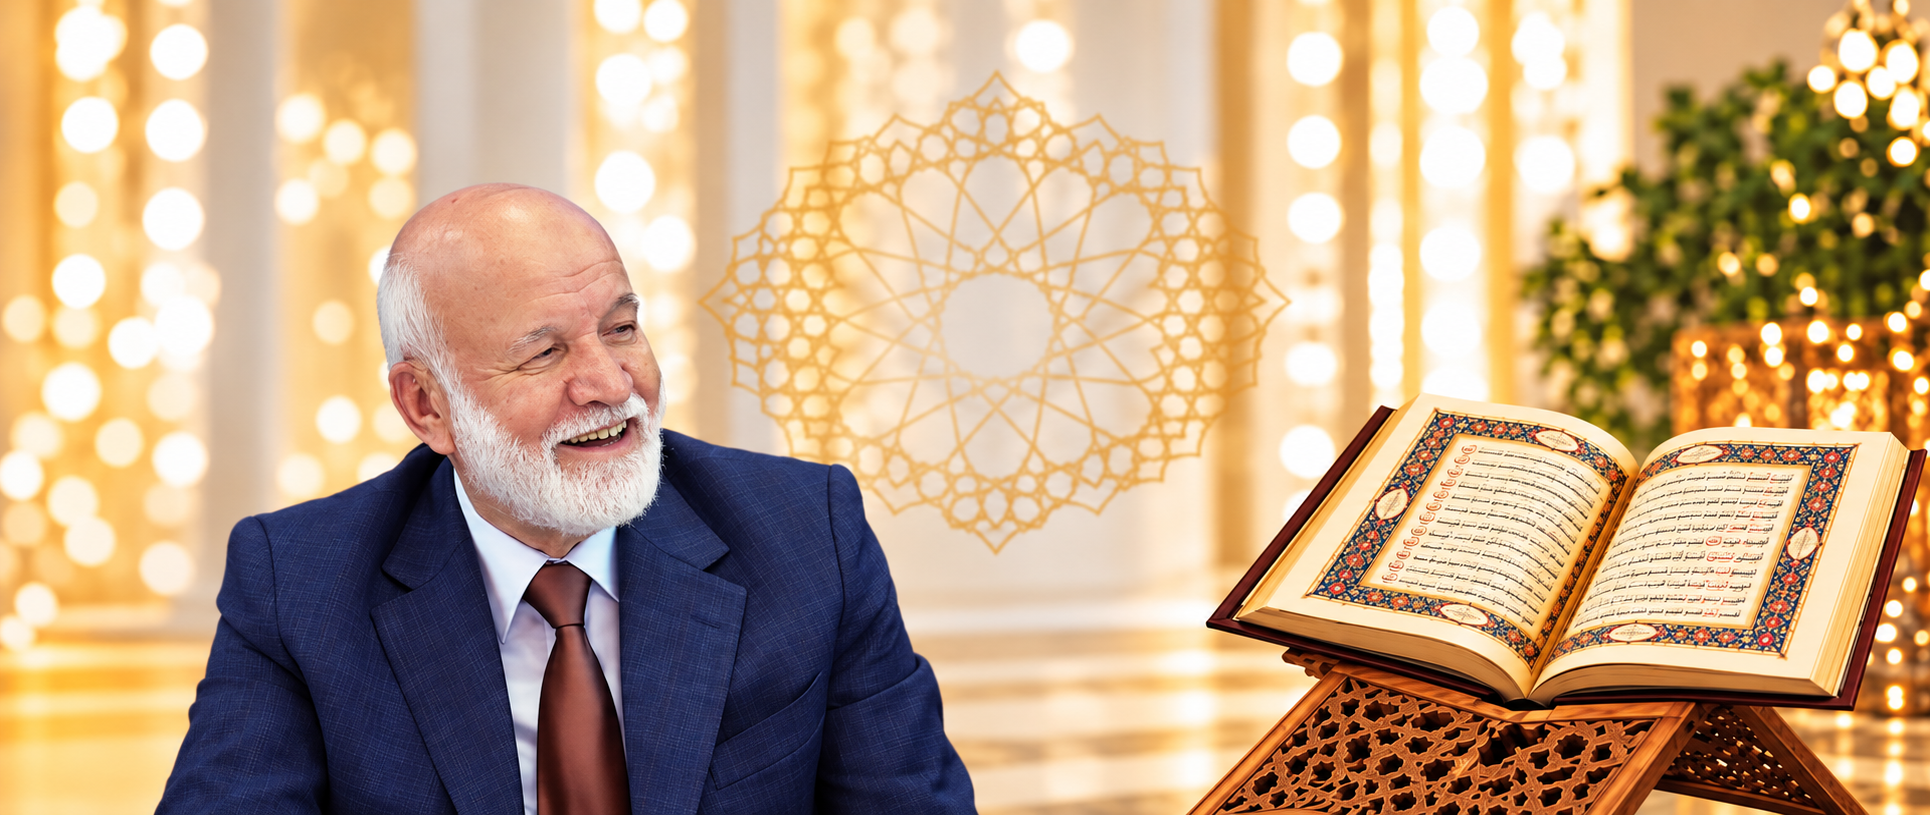
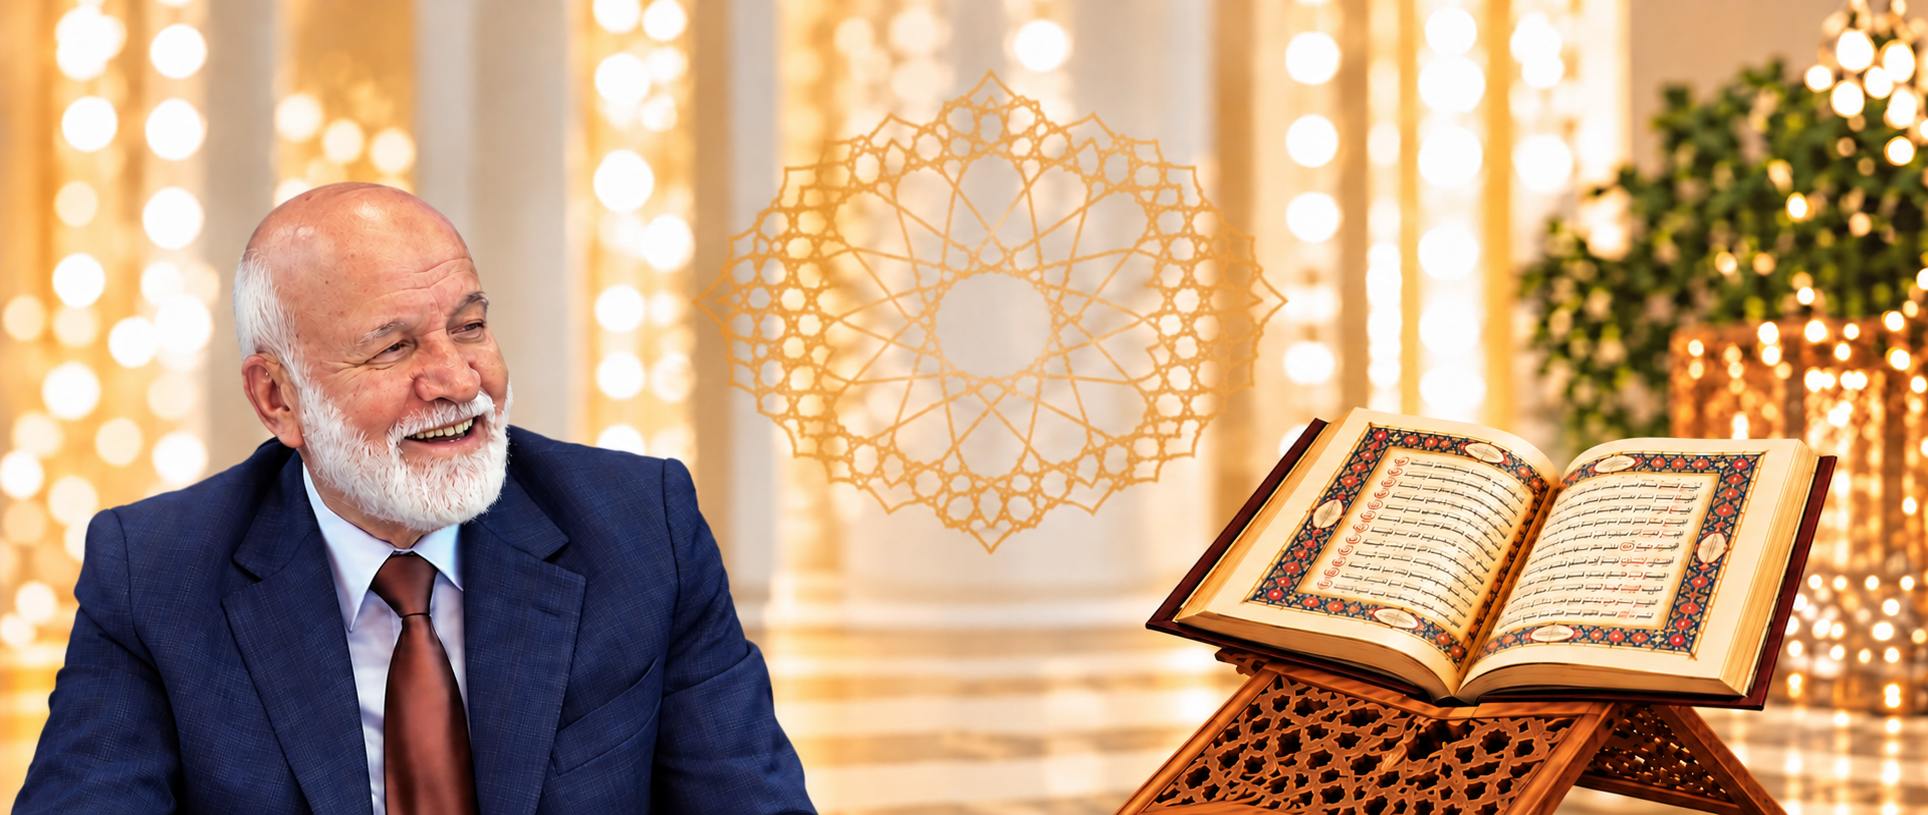
Canli yayin kapak gorselini guncelle

diff --git a/index.html b/index.html
@@ -136,7 +136,7 @@
           allowfullscreen></iframe>
         <button class="live-cover" type="button" data-live-cover aria-label="Canlı yayını izle">
           <!-- Kaynak: assets/intro.png (1930x815, 2.368:1 — kutunun oranıyla aynı). -->
-          <img src="assets/intro.png?v=1"
+          <img src="assets/intro.png?v=2"
             alt="" loading="eager" decoding="async"
             width="1930" height="815">
           <span class="hero__watch">
